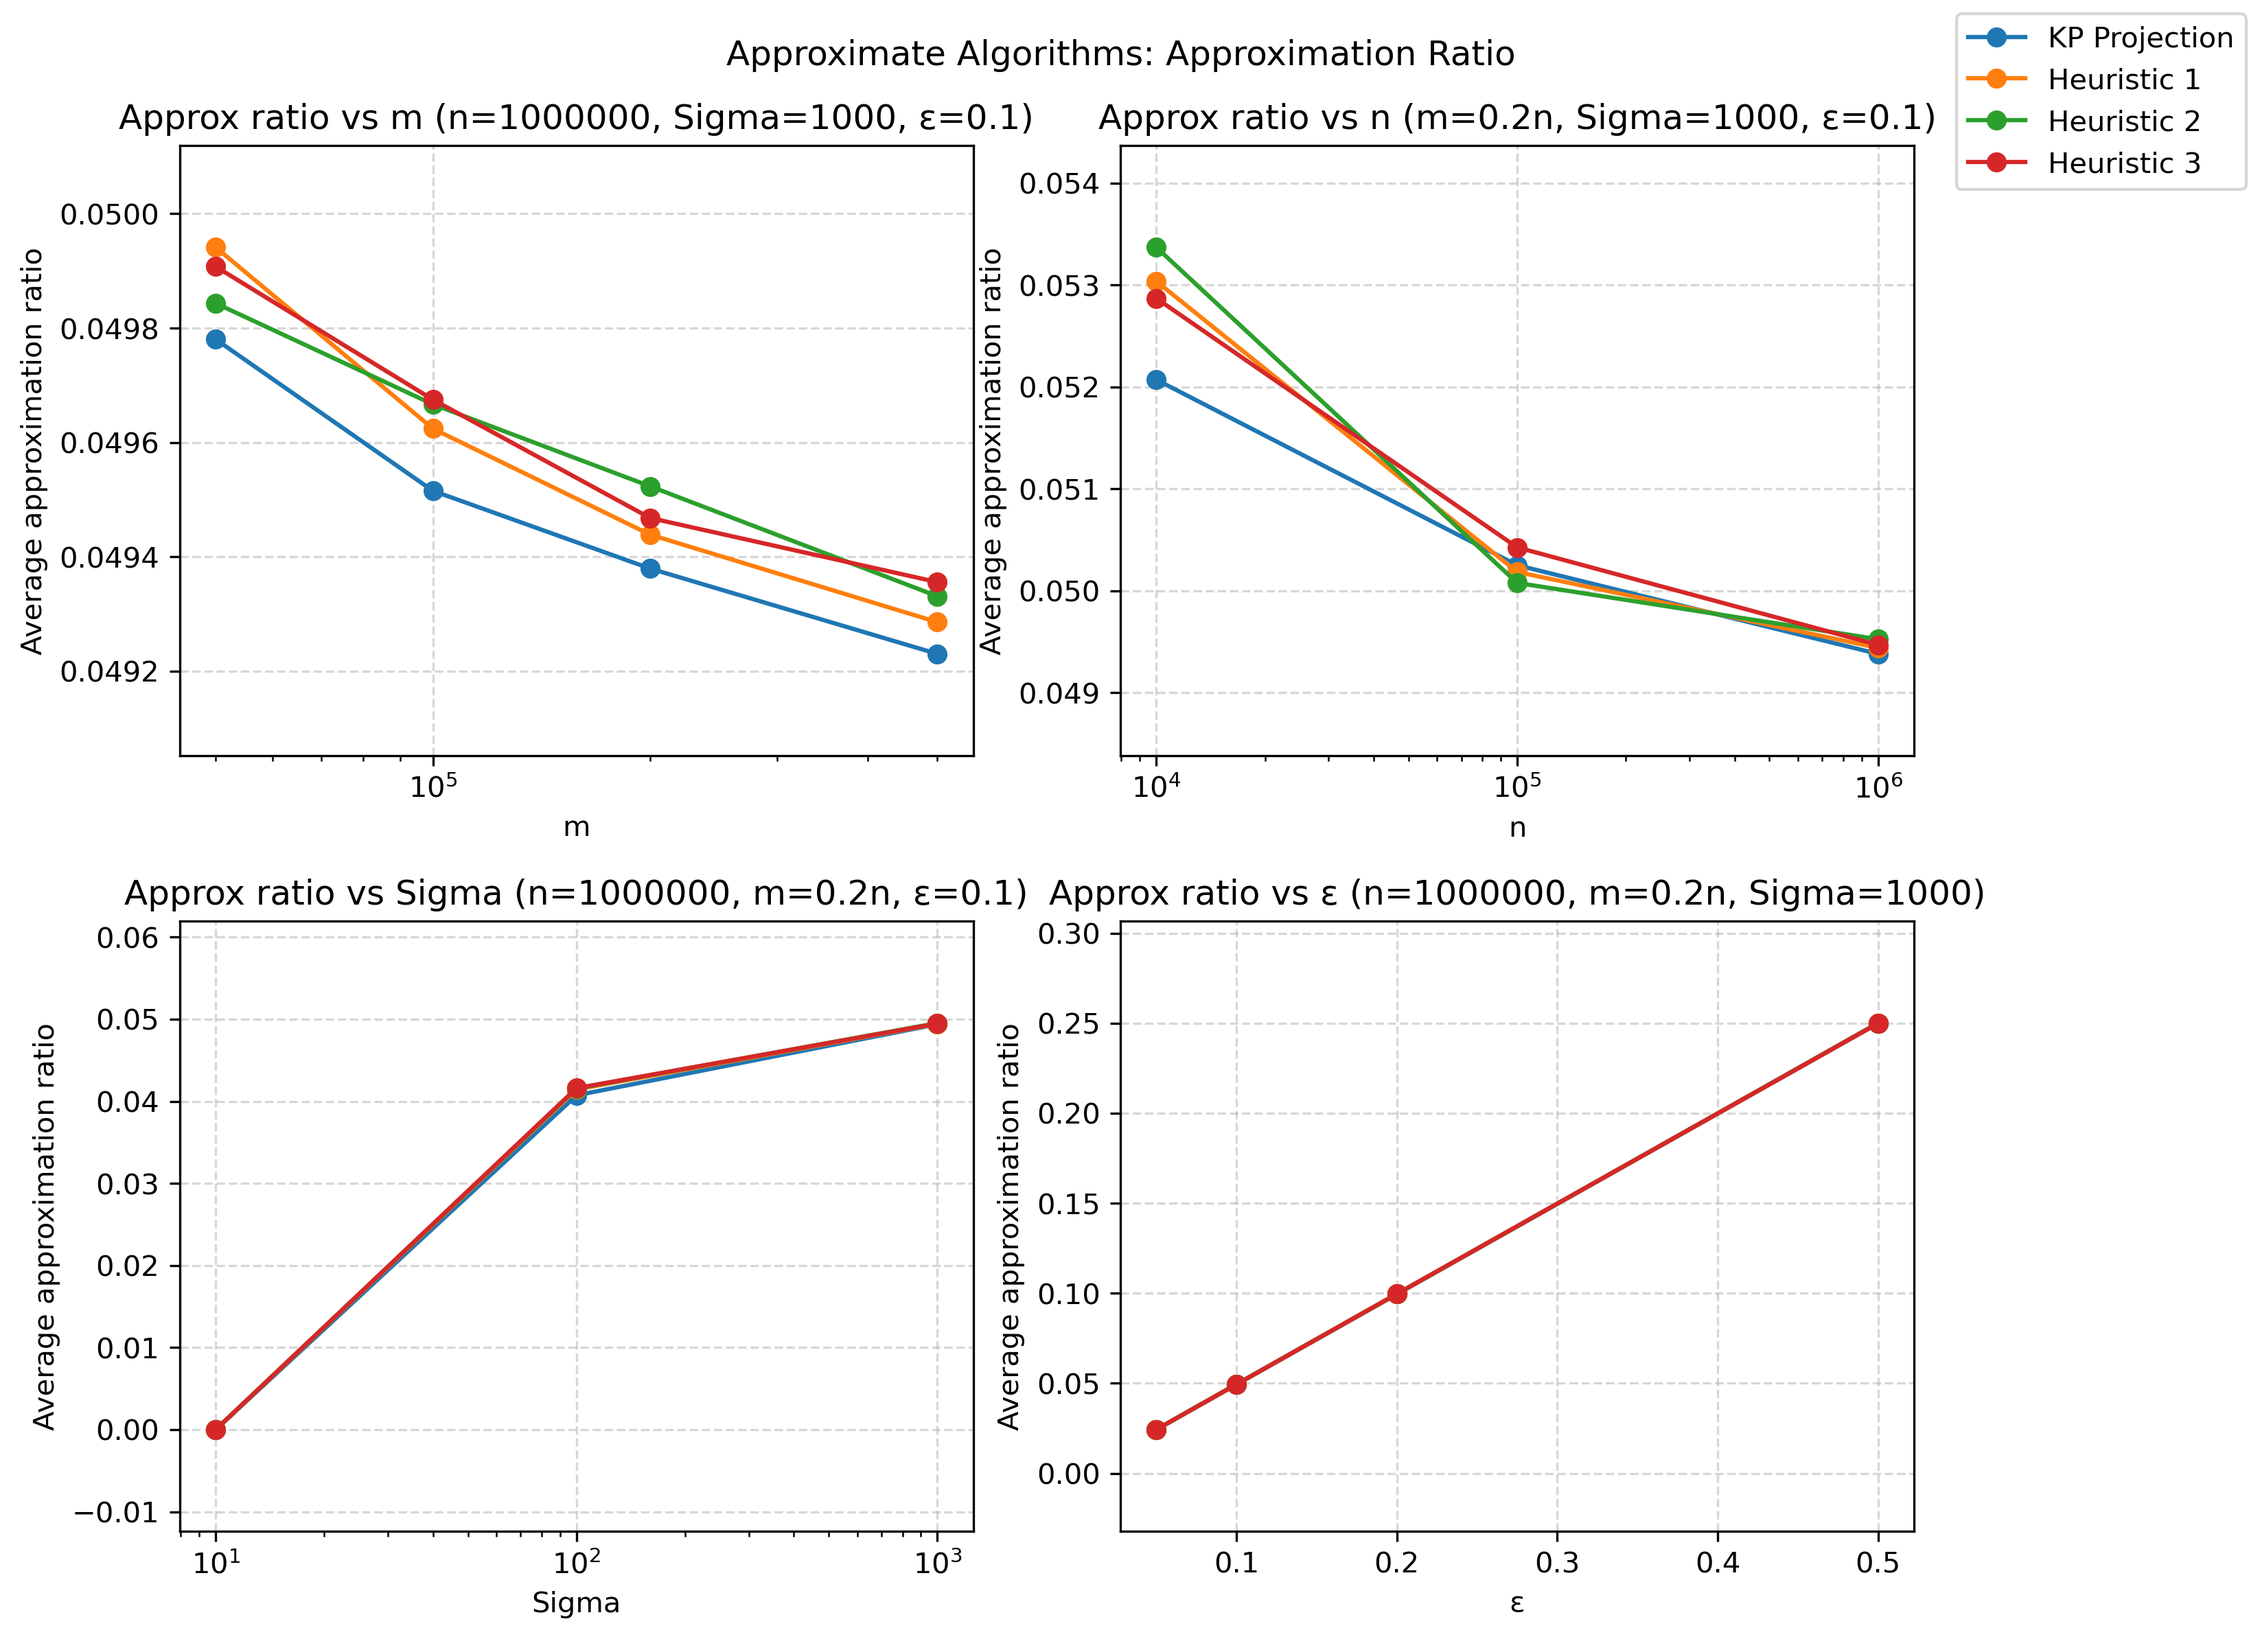
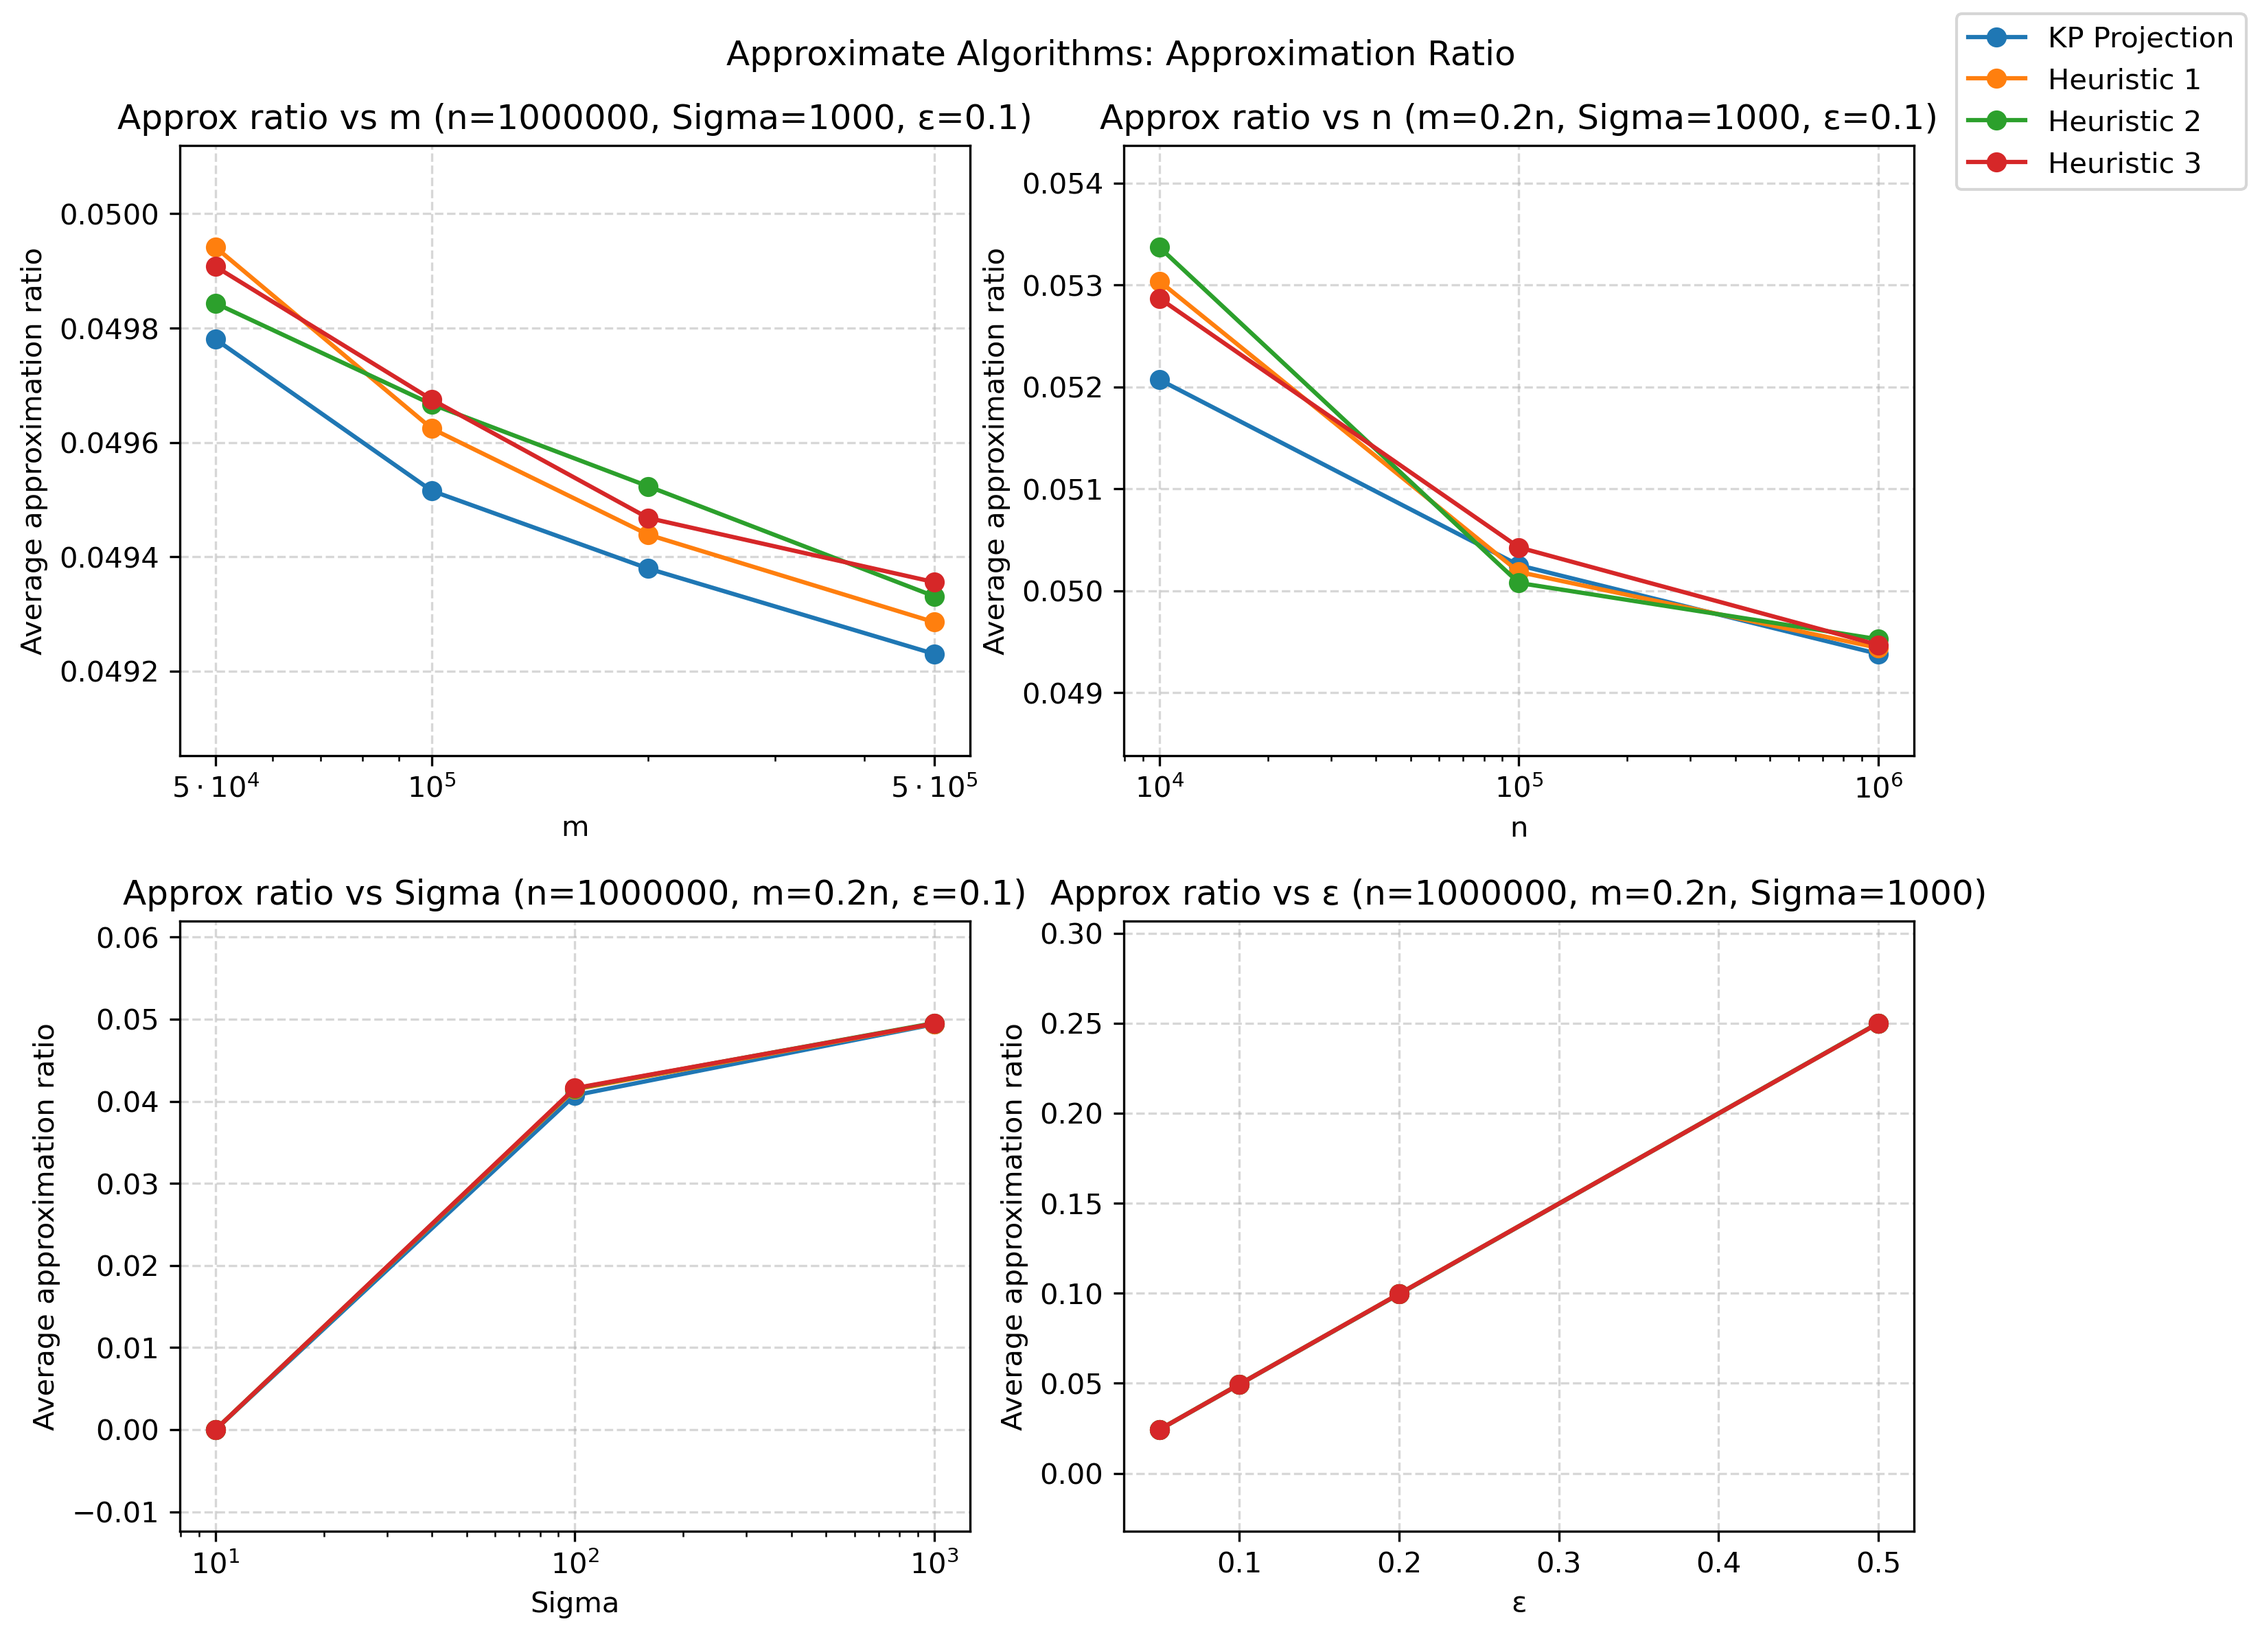
fixed plotting log scale ticks

diff --git a/src/plotting_new.py b/src/plotting_new.py
@@ -34,7 +34,7 @@ baseline_m_frac = 0.2
 # Helper to plot group on a given axis
 # -------------------------------------------------
 def plot_group_on_ax(ax, data, algos, x_col, metric,
-                     x_label, title, log_x=False, log_y=False, xticks=None):
+                     x_label, title, log_x=False, log_y=False, xticks=None, xticklabels=None):
 
     for algo in algos:
         cur = data[data["short_name"] == algo].sort_values(x_col)
@@ -42,13 +42,14 @@ def plot_group_on_ax(ax, data, algos, x_col, metric,
             continue
         ax.plot(cur[x_col], cur[metric], marker="o", label=algo)
 
-    if xticks is not None:
-            ax.set_xticks(xticks)
-
     if log_x:
         ax.set_xscale("log")
     if log_y:
         ax.set_yscale("log")
+
+    if xticks is not None:
+        ax.set_xticks(xticks)
+        ax.set_xticklabels(xticklabels)
 
     ax.set_xlabel(x_label)
 
@@ -90,7 +91,8 @@ LEGEND_LOC = "upper right"
 # FIGURE 1 — Approx algos: AVG TIME panels
 # =====================================================
 fig1, axes1 = plt.subplots(2, 2, figsize=(11, 8))
-
+custom_ticks = [5e4, 1e5, 5e5]
+custom_labels = [rf"$5\cdot10^{4}$", rf"$10^{5}$", rf"$5\cdot10^{5}$"]
 plot_group_on_ax(
     axes1[0, 0], sub_m, approx_algos,
     x_col="m",
@@ -98,6 +100,8 @@ plot_group_on_ax(
     x_label="m",
     title=f"Runtime vs m (n={baseline_n}, Sigma={baseline_sigma}, ε={baseline_eps})",
     log_x=True, log_y=True,
+    xticks=custom_ticks,
+    xticklabels=custom_labels
 )
 
 plot_group_on_ax(
@@ -156,6 +160,8 @@ plot_group_on_ax(
     x_label="m",
     title=f"Approx ratio vs m (n={baseline_n}, Sigma={baseline_sigma}, ε={baseline_eps})",
     log_x=True, log_y=False,
+    xticks=custom_ticks,
+    xticklabels=custom_labels
 )
 
 plot_group_on_ax(
@@ -212,6 +218,8 @@ plot_group_on_ax(
     x_label="m",
     title=f"Exact runtime vs m (n={baseline_n}, Sigma={baseline_sigma}, ε={baseline_eps})",
     log_x=True, log_y=True,
+    xticks=custom_ticks,
+    xticklabels=custom_labels
 )
 
 plot_group_on_ax(
@@ -253,4 +261,4 @@ fig3.legend(
 )
 
 fig3.savefig("../figures/exact_runtime.png", dpi=300, bbox_inches="tight")
-# plt.show()
+plt.show()
